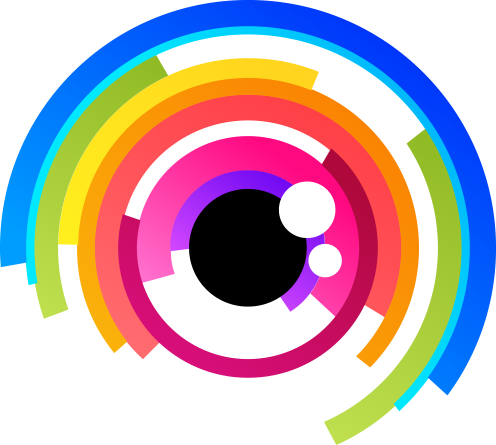
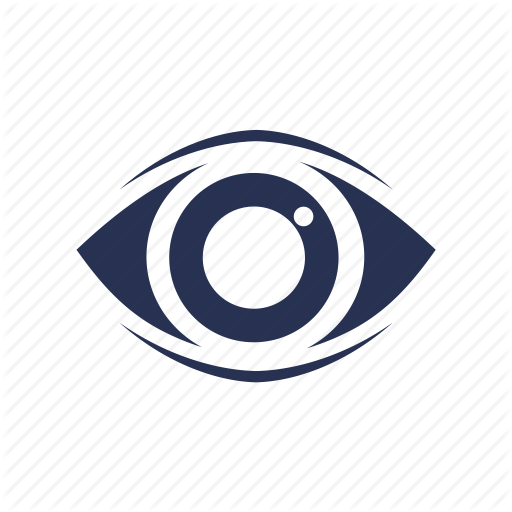
Implemented tileframe and misc changes
Updated icon, implemented menu items and added default display for tileframe

diff --git a/diskmap.py b/diskmap.py
@@ -1,6 +1,7 @@
 import sys
 from PyQt4 import QtGui, QtCore
 from guiwindow import GUIWindow
+from tileframe import TileFrame
 
 
 class DiskmapApp(QtGui.QApplication):
@@ -14,15 +15,42 @@ class DiskmapApp(QtGui.QApplication):
         self.__defaultStatus = "Please open a directory..."
         # Configure the GUIWindow
         self.__window = GUIWindow('Diskmap', 640, 360, 'Resources/icon.png')
+        # Configure the Tileframe
+        self.__tileframe = TileFrame(self.__window)
+        self.__window.setCentralWidget(self.__tileframe)
         # Setup remaining GUI elements
         self.__setupMenu()
+        self.__setupMenuItems()
         self.__window.setStatusBar(self.__defaultStatus)
         self.__window.show()
 
     def __setupMenu(self):
         '''Add all the menus used in the application to GUIWindow.'''
         self.__window.addMenu('File')
+        self.__window.addMenu('Options')
         self.__window.addMenu('Help')
+
+    def __setupMenuItems(self):
+        '''Add all the menu items, along with their event functions, used in
+        the application to GUIWindow.'''
+        # Setup File menu items
+        self.__window.addMenuItem('File', 'Load Directory', None)
+        self.__window.addMenuSeperator('File')
+        self.__window.addMenuItem('File', 'Quit', self.__window.close)
+        # Setup Option menu items
+        self.__window.addMenuItem('Options', 'Screenshot', None)
+        self.__window.addMenuItem('Options', 'Clear Map', None)
+        # Setup Help menu items
+        self.__window.addMenuItem('Help', 'About', self.__eventAbout)
+
+    def __eventAbout(self):
+        '''Display an information dialog about the program languages and tools
+        used to create this application and the name of the developer.'''
+        message = 'Disk Space Visualization Utility\nPython 3 PyQ 4\n\n' + \
+            'Developed by Salinder Sidhu'
+        # Render the message box
+        QtGui.QMessageBox.information(self.__window, 'About', message,
+                                      buttons=QtGui.QMessageBox.Ok)
 
 if __name__ == '__main__':
     # Pass command line arguments into application

diff --git a/tileframe.py b/tileframe.py
@@ -3,29 +3,39 @@ from treemap import Treemap
 
 
 class TileFrame(QtGui.QFrame):
-	''''''
+    ''''''
 
-	def __init__(self, parentWindow, width, height):
-		''''''
-		super(TileFrame, self).__init__(parentWindow)
-		# TileFrame variables
-		self.__treemap = None
-		# Set strong policy for focusing keyboard events to Tileframe
-		self.setFocusPolicy(QtCore.Qt.StrongFocus)
+    def __init__(self, parentWindow):
+        ''''''
+        super(TileFrame, self).__init__(parentWindow)
+        # TileFrame variables
+        self.__treemap = None
+        self.__bgCol = QtGui.QColor(64, 64, 64)
+        self.__txtCol = QtGui.QColor(38, 38, 38)
+        self.__txtFont = QtGui.QFont('CopperBlack', 60, QtGui.QFont.Bold)
+        self.__txt = "Visualizer"
+        # Set strong policy for focusing keyboard events to Tileframe
+        self.setFocusPolicy(QtCore.Qt.StrongFocus)
 
-	def clearMap(self):
-		''''''
-		self.__treemap = None
+    def clearMap(self):
+        ''''''
+        self.__treemap = None
 
-	def updateMap(self, treemap):
-		''''''
-		self.__treemap = treemap
+    def updateMap(self, treemap):
+        ''''''
+        self.__treemap = treemap
 
-	def paintEvent(self, event):
-		''''''
-		# By default, if there is no loaded Treemap, then switch to default
-		# display. Gray rectangle with darker grey text called "Visualizer".
-		if self.__treemap:
-			pass
-		else:
-			pass
+    def paintEvent(self, event):
+        ''''''
+        painter = QtGui.QPainter(self)  # Used to draw on the frame
+        # Clear all drawings on the GridFrame
+        painter.eraseRect(0, 0, self.width(), self.height())
+        if self.__treemap:
+            pass
+        else:
+            # Draw the default background
+            painter.fillRect(0, 0, self.width(), self.height(), self.__bgCol)
+            # Draw the default text
+            painter.setPen(self.__txtCol)
+            painter.setFont(self.__txtFont)
+            painter.drawText(event.rect(), QtCore.Qt.AlignCenter, self.__txt)

diff --git a/README.md b/README.md
@@ -6,6 +6,7 @@ A disk space visualization utility. This program displays all the files and fold
 ##Features:
 - Colourful graphical visualization of files and folders
 - Detailed information of files selected in the visualizer
+- Ability to save screenshots of the visualization
 - Ability to move, rename and delete files in the visualizer
 
 ##Supports:
